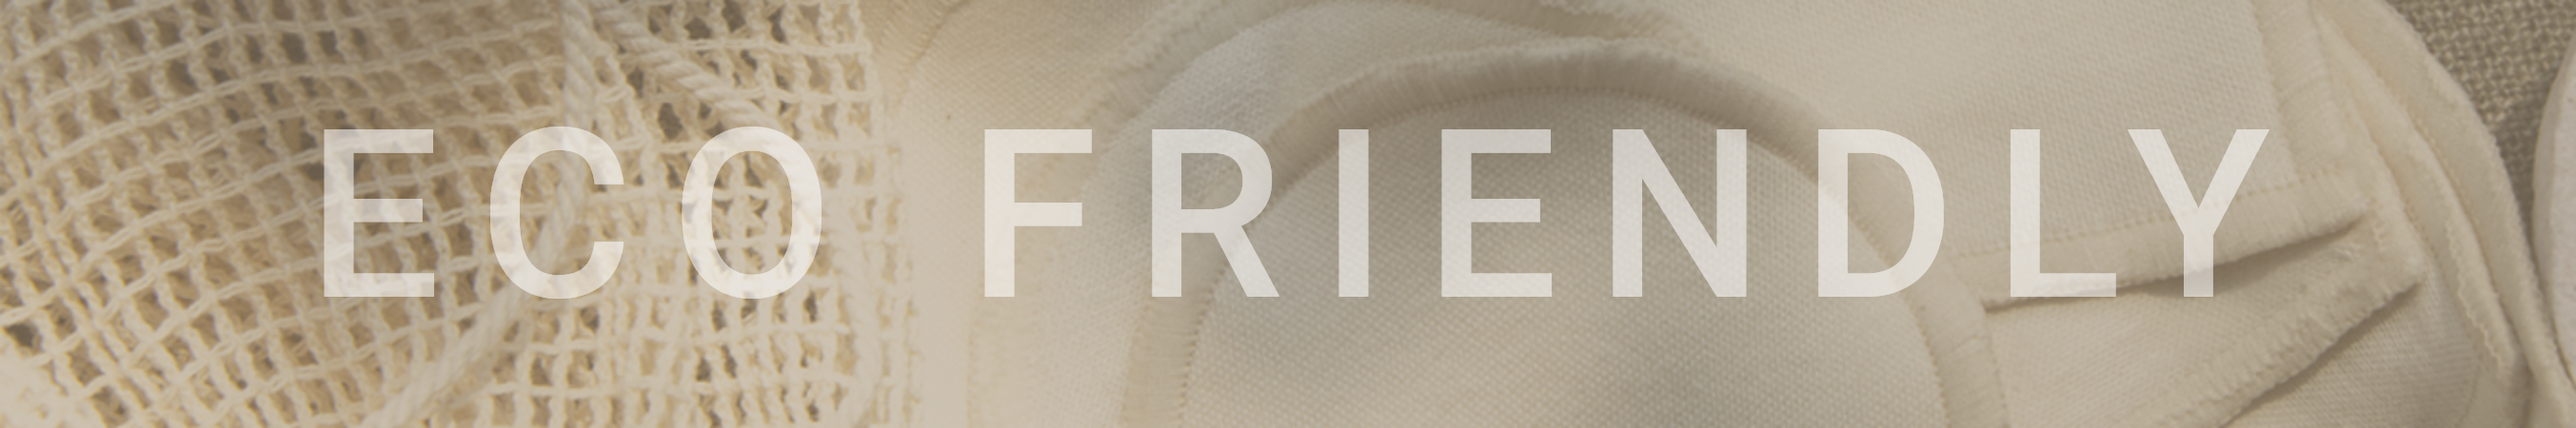
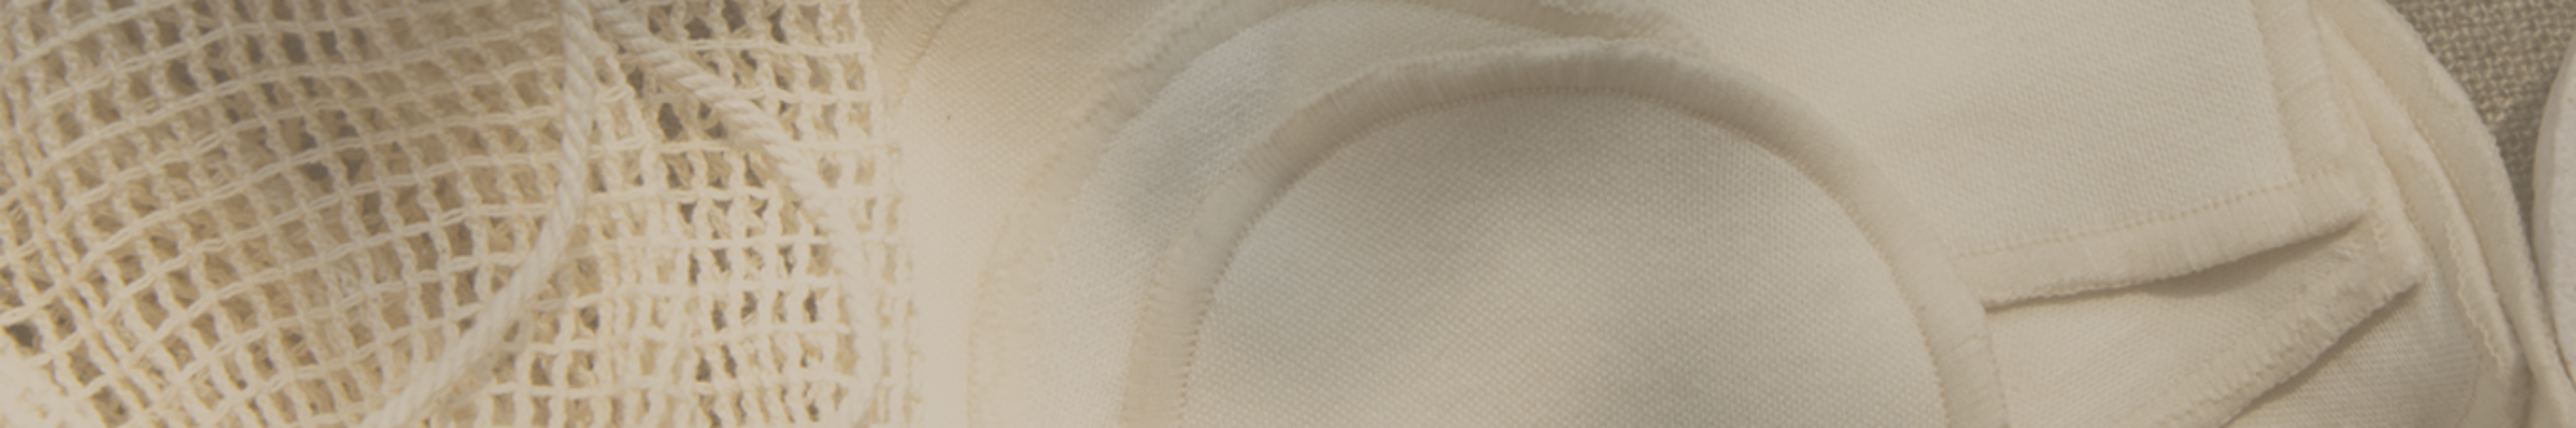
trans

Changed region(s): [[0.3725, 0.28, 0.9002, 0.7156], [0.1242, 0.28, 0.3415, 0.7156]]

diff --git a/frontend/src/Components/Menubar/Menubar.js b/frontend/src/Components/Menubar/Menubar.js
@@ -114,7 +114,6 @@ export default class Menubar extends Component {
               <div
                 className='menu-dropdown'
                 onMouseLeave={this.dropAbout}
-                onClick={this.dropHome}
               >
                 <div className='submenu-col-one'>
                   <Link to='/Identity' className='submenu-nav'>
@@ -207,6 +206,7 @@ export default class Menubar extends Component {
                     to='/OurProducts'
                     className='submenu-nav'
                     onClick={this.dropProduct}
+                    onMouseEnter={this.dropProduct}
                   >
                     Our Products
                   </Link>
@@ -214,6 +214,7 @@ export default class Menubar extends Component {
                     to='/OurFabric'
                     className='submenu-nav'
                     onClick={this.dropFabric}
+                    onMouseEnter={this.dropFabric}
                   >
                     Our Fabric
                   </Link>
@@ -234,8 +235,8 @@ export default class Menubar extends Component {
 
             {this.state.dropProductDiv ? (
               <div
-                className='menu-dropdown'
-                onMouseLeave={this.dropProduct}
+                className='menu-dropdown product-dropdown'
+                onMouseEnter={this.dropProduct}
                 onClick={this.dropProduct}
               >
                 <div className='submenu-col-div'>
@@ -243,6 +244,7 @@ export default class Menubar extends Component {
                     to='/OurProducts'
                     className='submenu-nav'
                     onClick={this.dropProduct}
+                    onMouseEnter={this.dropProduct}
                   >
                     Our Products
                   </Link>
@@ -250,6 +252,7 @@ export default class Menubar extends Component {
                     to='/OurFabric'
                     className='submenu-nav'
                     onClick={this.dropFabric}
+                    onMouseEnter={this.dropFabric}
                     style={{ color: 'rgba(0,0,0,0.5)' }}
                   >
                     Our Fabric
@@ -263,34 +266,34 @@ export default class Menubar extends Component {
                   </Link>
                 </div>
                 <div className='submenu-col-div sub-cont'>
-                  <Link to='/OurProducts' className='submenu-nav'>
+                  <Link to='/Bags' className='submenu-nav'>
                     Bags
                   </Link>
-                  <Link to='/OurFabric' className='submenu-nav'>
+                  <Link to='/Gifts' className='submenu-nav'>
                     Gifts
                   </Link>
-                  <Link to='/PrivateLabel' className='submenu-nav'>
+                  <Link to='/Tableware' className='submenu-nav'>
                     Tableware
                   </Link>
-                  <Link to='/PrivateLabel' className='submenu-nav'>
+                  <Link to='/Storage' className='submenu-nav'>
                     Storage
                   </Link>
                 </div>
-                <div className='submenu-col-two'>
+                <div className='submenu-col-two '>
                   <div className='smd'>
                     <div className='submenu-col-div'>
-                      <Link to='/PrivateLabel' className='submenu-nav'>
+                      <Link to='/Accessories' className='submenu-nav'>
                         Accessories
                       </Link>
-                      <Link to='/PrivateLabel' className='submenu-nav'>
+                      <Link to='/Stationary' className='submenu-nav'>
                         Stationary
                       </Link>
-                      <Link to='/PrivateLabel' className='submenu-nav'>
+                      <Link to='/Promotional' className='submenu-nav'>
                         Promotional
                       </Link>
                     </div>
                   </div>
-                  <div className='submenu-divider'>
+                  <div className='submenu-dividers  '>
                     <img
                       src='./Images/HomeScreenImages/submenu.png'
                       alt='submenu-img'
@@ -301,8 +304,8 @@ export default class Menubar extends Component {
             ) : null}
             {this.state.dropFabricDiv ? (
               <div
-                className='menu-dropdown'
-                onMouseLeave={this.dropFabric}
+                className='menu-dropdown product-dropdown '
+                onMouseEnter={this.dropFabric}
                 onClick={this.dropProduct}
               >
                 <div className='submenu-col-div'>
@@ -311,6 +314,7 @@ export default class Menubar extends Component {
                     className='submenu-nav'
                     style={{ color: 'rgba(0,0,0,0.5)' }}
                     onClick={this.dropProduct}
+                    onMouseEnter={this.dropProduct}
                   >
                     Our Products
                   </Link>
@@ -318,6 +322,7 @@ export default class Menubar extends Component {
                     to='/OurFabric'
                     className='submenu-nav'
                     onClick={this.dropFabric}
+                    onMouseEnter={this.dropFabric}
                   >
                     Our Fabric
                   </Link>
@@ -330,31 +335,31 @@ export default class Menubar extends Component {
                   </Link>
                 </div>
                 <div className='submenu-col-div'>
-                  <Link to='/OurProducts' className='submenu-nav'>
+                  <Link to='/Cotton' className='submenu-nav'>
                     Cotton
                   </Link>
-                  <Link to='/PrivateLabel' className='submenu-nav'>
+                  <Link to='/Felt' className='submenu-nav'>
                     Felt
                   </Link>
-                  <Link to='/PrivateLabel' className='submenu-nav'>
+                  <Link to='/Linen' className='submenu-nav'>
                     Linen
                   </Link>
                 </div>
                 <div className='submenu-col-two'>
                   <div className='smd'>
                     <div className='submenu-col-div'>
-                      <Link to='/PrivateLabel' className='submenu-nav'>
+                      <Link to='/Hemp' className='submenu-nav'>
                         Hemp
                       </Link>
-                      <Link to='/PrivateLabel' className='submenu-nav'>
+                      <Link to='/Recycled' className='submenu-nav'>
                         Recycled
                       </Link>
-                      <Link to='/PrivateLabel' className='submenu-nav'>
+                      <Link to='/Organic' className='submenu-nav'>
                         Organic
                       </Link>
                     </div>
                   </div>
-                  <div className='submenu-divider'>
+                  <div className='submenu-dividers'>
                     <img
                       src='./Images/HomeScreenImages/submenu.png'
                       alt='submenu-img'

diff --git a/frontend/src/HomeScreen/Products/Products.css b/frontend/src/HomeScreen/Products/Products.css
@@ -321,3 +321,87 @@
     height: auto;
   }
 }
+.dd {
+  animation: slide 0.5s;
+}
+.caro {
+  animation: slide 3s;
+  text-align: center;
+  font-family: 'robotoMedium';
+  font-size: 124px;
+  letter-spacing: 19.84px;
+  color: #ffffff;
+  text-transform: uppercase;
+  opacity: 0.5;
+  background-color: transparent;
+  box-shadow: none;
+  text-shadow: none;
+}
+.carousel-caption {
+  z-index: 0 !important;
+}
+.eco-carousel-text {
+  letter-spacing: 2px;
+}
+@keyframes slide {
+  0% {
+    transform: translateX(300%);
+  }
+  50% {
+    transform: translateX(-10%);
+  }
+  100% {
+    transform: translateX(0%);
+  }
+}
+
+@media only screen and (max-width: 1440px) {
+  .carousel-caption {
+    top: 0px;
+  }
+}
+@media only screen and (max-width: 1024px) {
+  .caro {
+    font-size: 100px;
+    display: flex;
+    justify-content: center;
+    flex-direction: column;
+  }
+}
+@media only screen and (max-width: 992px) {
+  .caro {
+    font-size: 80px;
+    letter-spacing: 5px;
+  }
+  .eco-carousel-text {
+    letter-spacing: 1px;
+  }
+}
+@media only screen and (max-width: 675px) {
+  .caro {
+    font-size: 50px;
+    letter-spacing: 5px;
+  }
+  .eco-carousel-text {
+    letter-spacing: 1px;
+  }
+}
+@media only screen and (max-width: 475px) {
+  .caro {
+    font-size: 40px;
+    letter-spacing: 5px;
+  }
+  .eco-carousel-text {
+    letter-spacing: 1px;
+  }
+}
+
+@media only screen and (max-width: 375px) {
+  .caro {
+    font-size: 30px;
+    letter-spacing: 5px;
+  }
+  .eco-carousel-text {
+    letter-spacing: 1px;
+  }
+}

diff --git a/frontend/src/HomeScreen/Products/Products.js b/frontend/src/HomeScreen/Products/Products.js
@@ -12,6 +12,9 @@ const Products = () => {
               src='./Images/HomeScreenImages/natural.png'
               alt='herobanner1'
             />
+            <Carousel.Caption className="caro">
+              NATURAL
+            </Carousel.Caption>
           </Carousel.Item>
           <Carousel.Item interval={3000} className='hero-banner-img'>
             <img
@@ -19,6 +22,9 @@ const Products = () => {
               src='./Images/HomeScreenImages/sustain.png'
               alt='herobanner2'
             />
+            <Carousel.Caption className="caro">
+              sustainable
+            </Carousel.Caption>
           </Carousel.Item>
           <Carousel.Item interval={3000} className='hero-banner-img'>
             <img
@@ -26,9 +32,11 @@ const Products = () => {
               src='./Images/HomeScreenImages/eco.png'
               alt='herobanner3'
             />
+            <Carousel.Caption className="caro eco-carousel-text">
+              eco friendly
+            </Carousel.Caption>
           </Carousel.Item>
         </Carousel>
-
         <div className='products-container'>
           <div className='product-wrap-one'>
             <div className='product-text-wrap'>

diff --git a/frontend/src/Components/Menubar/Menubar.css b/frontend/src/Components/Menubar/Menubar.css
@@ -101,6 +101,20 @@
     opacity: 1;
   }
 }
+@keyframes fadeIn {
+  0% {
+    opacity: 1;
+  }
+  50% {
+    opacity: 1;
+  }
+  100% {
+    opacity: 1;
+  }
+}
+.product-dropdown {
+  animation: fadeIn 0.1s;
+}
 .submenu-col-one {
   width: 50%;
   position: absolute;
@@ -129,6 +143,14 @@
   padding: 15px 0px 15px 0px;
 }
 .submenu-divider img {
+  width: 100%;
+  height: 100%;
+}
+.submenu-dividers {
+  width: 100%;
+  padding: 15px 0px 15px 0px;
+}
+.submenu-dividers img {
   width: 100%;
   height: 100%;
 }
